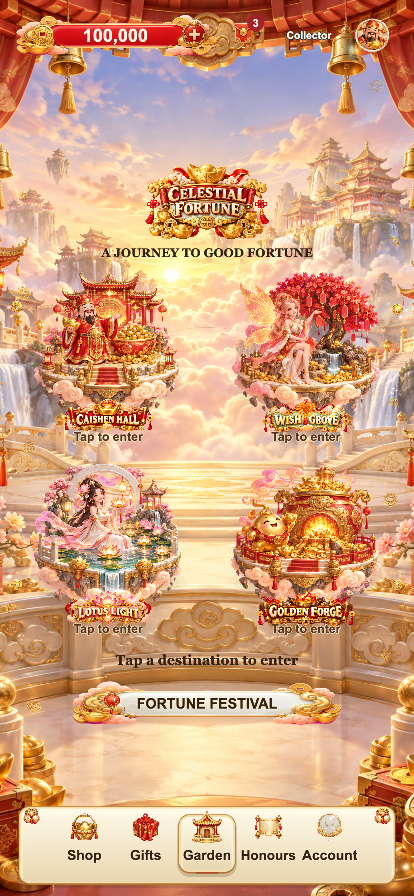
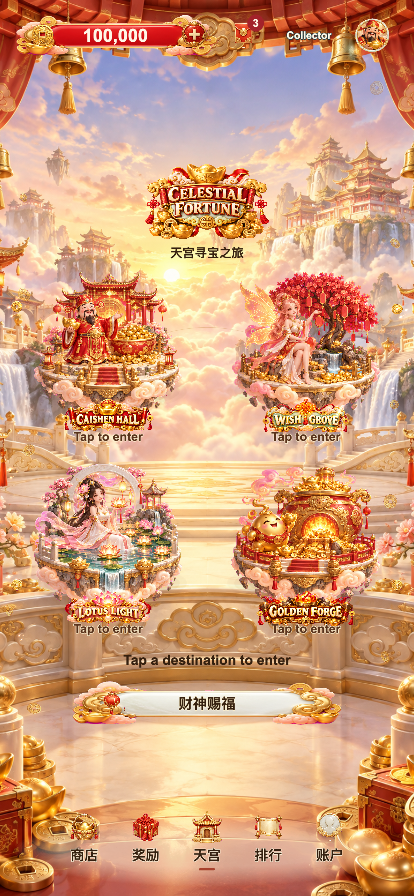
fix: align F22 blessing event and navigation with celestial theme

diff --git a/完整游戏模版/全游戏模版/F22_Celestial_Fortune_v1.0.0/assets/scripts/ui/AureliaApp.ts b/完整游戏模版/全游戏模版/F22_Celestial_Fortune_v1.0.0/assets/scripts/ui/AureliaApp.ts
@@ -99,11 +99,11 @@ export class AureliaApp extends Component {
     const previous=this.root;if(previous){const a=opacity(previous,255);Tween.stopAllByTarget(a);a.opacity=255;for(const edit of previous.getComponentsInChildren(EditBox))edit.enabled=false;}
     if(this.retiring&&this.retiring!==previous)this.retiring.destroy();this.retiring=previous;
     this.height=Safe.visibleHeight;this.top=this.height/2;
-    const root=box(this.node,'Royal-Jubilee-interface',0,0,Safe.visibleWidth,this.height);this.root=root;root.addComponent(BlockInputEvents);
+    const root=box(this.node,'Celestial-Fortune-interface',0,0,Safe.visibleWidth,this.height);this.root=root;root.addComponent(BlockInputEvents);
     const backdrop=this.page==='home'?'canopy-hall-soft':this.page==='login'||this.page==='register'?'salon':'canopy-services';
     this.bg=this.page==='game'?undefined:this.art.cover(root,backdrop,0,0,Safe.visibleWidth,this.height);
 
-    if(this.page!=='game'){box(root,'Royal coin atmosphere',0,0,Safe.visibleWidth,this.height).addComponent(CanopyLeaves).setup(this.art,Safe.visibleWidth,this.height,this.reduced);}
+    if(this.page!=='game'){box(root,'Fortune coin atmosphere',0,0,Safe.visibleWidth,this.height).addComponent(CanopyLeaves).setup(this.art,Safe.visibleWidth,this.height,this.reduced);}
     this.content=box(root,'Page',0,0,1080,this.height);
     if(this.page==='login'||this.page==='register')this.authPage();
     else if(this.page==='game')this.gamePage();
@@ -174,13 +174,15 @@ export class AureliaApp extends Component {
     dot.active=true;const label=dot.getComponentInChildren(Label);if(label)label.string=String(unread);
   }
   private navigation():void{
-    const nav=this.art.enamel(this.content!,0,-this.top+132+Safe.safeBottom,984,206);
-    this.art.image(nav,'interfaces',-458,77,52,52,0);this.art.image(nav,'interfaces',458,77,52,52,0);
+    const nav=box(this.content!,'Garden cloud navigation',0,-this.top+132+Safe.safeBottom,984,206);
+    // A soft pool of warm light rests on the garden floor without a rigid card edge.
+    const mist=box(nav,'Warm cloud footing',0,-13,1000,190).addComponent(Graphics);
+    for(let i=0;i<18;i++){mist.fillColor=new Color(255,247,222,9);mist.ellipse(0,0,500-i*7,94-i*3);mist.fill();}
     const pages:Page[]=['store','rewards','home','rank','profile'],labels=['Shop','Gifts','Garden','Honours','Account'],icons=[1,2,5,3,4];
     pages.forEach((page,i)=>{
       const center=i===2,active=page===this.page;
       const hit=box(nav,labels[i],(i-2)*160,0,156,184);
-      if(active){const seat=this.art.enamel(hit,0,4,150,155);opacity(seat,210);const accent=box(hit,'Active navigation underline',0,-72,60,4).addComponent(Graphics);accent.fillColor=new Color('#A8422D');accent.roundRect(-30,-2,60,4,2);accent.fill();}
+      if(active){const accent=box(hit,'Active garden marker',0,-62,42,6).addComponent(Graphics);accent.fillColor=new Color('#A8422D');accent.roundRect(-21,-3,42,6,3);accent.fill();}
       const icon=this.art.image(hit,'interfaces',0,48,center?111:88,center?102:88,icons[i]);
       const captionY=-25;
       const caption=outlined(text(hit,labels[i],0,captionY,150,50,36,'#35200F'),'#FFF4DD',1.5);caption.enableWrapText=false;
@@ -229,7 +231,7 @@ export class AureliaApp extends Component {
     let startX=0,startY=0,swiped=false;
     world.on(Node.EventType.TOUCH_START,(e:EventTouch)=>{const v=e.getUILocation();startX=v.x;startY=v.y;swiped=false;},this,true);
     world.on(Node.EventType.TOUCH_MOVE,(e:EventTouch)=>{const v=e.getUILocation(),dx=v.x-startX,dy=v.y-startY;if(!swiped&&Math.abs(dx)>100&&Math.abs(dx)>Math.abs(dy)*1.2){swiped=true;select(this.selectedRoute+(dx<0?1:-1));this.audio.play('tap');}},this,true);
-    this.art.button(stage,'Fortune festival',0,-645,680,110,'FORTUNE FESTIVAL',6,()=>this.celebration(),0);
+    this.art.button(stage,'Fortune festival',0,-645,680,110,'CAISHEN’S BLESSING',6,()=>this.celebration(),0);
     select(this.selectedRoute,false);this.festivalDrift(stage);
   }
 
@@ -752,7 +754,7 @@ export class AureliaApp extends Component {
     else{this.refreshBalance();this.toast('Today’s gift has already been collected.');}
   }catch{this.refreshBalance();this.toast('Unable to collect. Please try again.');}finally{this.busy=false;}}
   private rankPage():void{
-    const stage=this.pageStage('Royal honours');
+    const stage=this.pageStage('Celestial honours');
     text(stage,'THE CELESTIAL HONOUR ROLL',0,629,930,84,40,COLORS.ink,true);
     text(stage,'TOTAL WON',0,548,910,46,31,COLORS.ink);
     const stamp=this.generation;const render=(players=this.services.rank.list('all-time',this.services.profile.current())):void=>{if(stamp!==this.generation)return;
@@ -895,7 +897,7 @@ if(!records.length){const icon=this.art.image(s,'interfaces',0,156,220,220,1);th
     this.art.button(panel,'Back to mailbox',0,-383,580,76,'Back to mailbox',9,()=>this.mail(),0);
   }
   private celebration():void {
-    const panel=this.sheet('FORTUNE FESTIVAL',1440),today=new Date().toISOString().slice(0,10);
+    const panel=this.sheet('CAISHEN’S BLESSING',1440),today=new Date().toISOString().slice(0,10);
     text(panel,'One free treasure draw every day',0,508,770,55,32);
     const wheel=box(panel,'Celebration carousel',0,255,520,520);
     this.art.image(panel,'symbols',0,255,200,200,1);
@@ -934,7 +936,7 @@ if(!records.length){const icon=this.art.image(s,'interfaces',0,156,220,220,1);th
       text(row,claimed?'Collected':money(amount)+' COINS',14,-24,490,42,29,COLORS.ink);
       row.name='Celebration milestone '+target;bindPress(row,row,()=>{
         if(claimed){this.toast('Reward already collected');return;}
-        if(played<target){this.toast('Play any royal game to advance this task');return;}
+        if(played<target){this.toast('Play any game to gather good fortune');return;}
         if(this.services.remoteMode){this.toast('Celebration rewards require the event server.');return;}
         if(this.services.rewards.claim(id,amount,'achievement')){this.audio.play('win');this.refreshBalance();this.celebration();this.toast(money(amount)+' coins collected');}
       });

diff --git a/完整游戏模版/全游戏模版/F22_Celestial_Fortune_v1.0.0/assets/scripts/ui/Language.ts b/完整游戏模版/全游戏模版/F22_Celestial_Fortune_v1.0.0/assets/scripts/ui/Language.ts
@@ -64,9 +64,9 @@ export const translations:Record<string,readonly string[]> = {
 "JOIN THE FESTIVAL":["加入聚宝盛会", "加入聚寶盛會", "祝祭に参加", "축제 참가"],
 "PLAY NOW":["开始游戏", "開始遊戲", "プレイ", "플레이"],
 "A JOURNEY TO GOOD FORTUNE":["天宫寻宝之旅", "天宮尋寶之旅", "幸運への旅", "행운을 향한 여정"],
-"FORTUNE FESTIVAL":["皇家庆典", "皇家慶典", "ロイヤル祝祭", "로열 축제"],
-"Celestial mailbox":["皇家邮箱", "皇家郵箱", "ロイヤルメール", "왕실 우편함"],
-"Celestial letter":["皇家来信", "皇家來信", "王室からの手紙", "왕실 편지"],
+"CAISHEN’S BLESSING":["财神赐福", "財神賜福", "財神の祝福", "재신의 축복"],
+"Celestial mailbox":["仙庭邮箱", "仙庭郵箱", "仙庭メール", "선계 우편함"],
+"Celestial letter":["仙庭来信", "仙庭來信", "仙庭からの手紙", "선계 편지"],
 "Palace post · Gifts and notices":["宫廷邮局 · 礼物与通知", "宮廷郵局 · 禮物與通知", "王室便り・ギフトとお知らせ", "왕실 우편 · 선물과 알림"],
 "Attachment collected":["附件已领取", "附件已領取", "受取済み", "첨부 보상 수령 완료"],
 "Collect attachment":["领取附件", "領取附件", "添付を受け取る", "첨부 보상 받기"],
@@ -84,7 +84,7 @@ export const translations:Record<string,readonly string[]> = {
 "Open my treasure":["开启我的宝藏", "開啟我的寶藏", "宝物を開く", "내 보물 열기"],
 "Revealing your treasure…":["正在揭晓宝藏…", "正在揭曉寶藏…", "宝物を公開中…", "보물 공개 중…"],
 "Round milestones are one-time rewards.\nDaily draw resets at 00:00 UTC.":["局数任务仅可领取一次。\n每日抽选于UTC 00:00重置。", "局數任務僅可領取一次。\n每日抽選於UTC 00:00重置。", "回数報酬は各1回のみ。\n毎日UTC 00:00に抽選をリセット。", "플레이 횟수 보상은 1회 한정입니다.\n추첨은 매일 UTC 00:00 초기화됩니다."],
-"Play any royal game to advance this task":["游玩任意柜机即可推进任务", "遊玩任意櫃機即可推進任務", "ゲームをプレイして進めましょう", "아무 게임이나 플레이해 진행하세요"],
+"Play any game to gather good fortune":["游玩任意柜机即可推进任务", "遊玩任意櫃機即可推進任務", "ゲームをプレイして進めましょう", "아무 게임이나 플레이해 진행하세요"],
 "No attachments to collect":["没有可领取的附件", "沒有可領取的附件", "受取可能な添付はありません", "받을 첨부 보상이 없습니다"],
 "Reward already collected":["奖励已领取", "獎勵已領取", "報酬は受取済み", "이미 받은 보상입니다"],
 
@@ -97,7 +97,7 @@ export const translations:Record<string,readonly string[]> = {
 "Includes simulated competitors":["榜单含模拟参赛角色","榜單含模擬參賽角色","シミュレーション参加者を含みます","모의 참가자 포함"],
 "Palace":["皇宫", "皇宮", "王宮", "왕궁"],
 "TAP TO PLAY":["点击进入", "點擊進入", "タップしてプレイ", "탭하여 플레이"],
-"ENTER THE CELEBRATION":["开启皇家庆典", "開啟皇家慶典", "祝祭へ進む", "축제 입장"],
+"ENTER THE CELEBRATION":["开启财神赐福", "開啟財神賜福", "祝祭へ進む", "축제 입장"],
 "CAISHEN HALL":["财神宝殿", "財神寶殿", "財神の宝殿", "재신의 전당"],
 "WISH GROVE":["如意精灵", "如意精靈", "願いの森", "소원의 숲"],
 "LOTUS LIGHT":["莲灯仙境", "蓮燈仙境", "蓮の灯", "연꽃 등불"],
@@ -106,8 +106,8 @@ export const translations:Record<string,readonly string[]> = {
 "YOUR ROYAL MEMBERSHIP":["皇家会员", "皇家會員", "王室メンバー", "왕실 회원"],
 "ROYAL GUEST":["皇家贵宾", "皇家貴賓", "王室ゲスト", "왕실 손님"],
 "JUBILEE MEMBER":["庆典会员", "慶典會員", "祝祭メンバー", "축제 회원"],
-"Your celestial festival starts here":["从这里开启皇家庆典", "從這裡開啟皇家慶典", "王室の祝祭へようこそ", "왕실 축제를 시작하세요"],
-"Treasures fit for a royal celebration":["挑选皇家宝藏", "挑選皇家寶藏", "王家の宝物を選ぼう", "왕실 보물을 선택하세요"],
+"Your celestial festival starts here":["从这里开启财神赐福", "從這裡開啟財神賜福", "王室の祝祭へようこそ", "왕실 축제를 시작하세요"],
+"Treasures fit for a royal celebration":["挑选仙庭宝藏", "挑選仙庭寶藏", "王家の宝物を選ぼう", "왕실 보물을 선택하세요"],
 
   "Language": [
     "语言",
@@ -1781,6 +1781,10 @@ export const translations:Record<string,readonly string[]> = {
     "검증된 잔액을 동기화할 수 없습니다."
   ]
 };
+Object.assign(translations, {
+"Play {0} rounds": ["游玩 {0} 局", "遊玩 {0} 局", "{0} 回プレイ", "{0}회 플레이"],
+"Round milestones are one-time rewards. Daily draw resets at 00:00 UTC.": ["局数奖励仅可领取一次。每日赐福于 UTC 00:00 重置。", "局數獎勵僅可領取一次。每日賜福於 UTC 00:00 重置。", "回数報酬は一度限り。毎日の祝福は UTC 00:00 に更新。", "횟수 보상은 1회 한정. 매일 UTC 00:00에 축복 초기화."]
+});
 const patterns=Object.keys(translations).filter(k=>k.includes('{')).sort((a,b)=>b.length-a.length).map(key=>({key,re:new RegExp('^'+key.split(/(\{\d+\})/).map(p=>/^\{\d+\}$/.test(p)?'(.+?)':p.replace(/[.*+?^${}()|[\]\\]/g,'\\$&')).join('')+'$')}));
 export function tr(value:string):string {
  if(selected==='en')return value;
